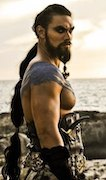
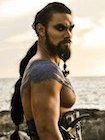
remove myspace friend reference, crop khal pic to be slightly shorter

diff --git a/khal.html b/khal.html
@@ -380,10 +380,6 @@
               <img src="pictures/KennyPowers.jpg">
             </figure>
 
-            <figure>
-              <figcaption><a href="#">InnSpace<br>Records</a></figcaption>
-              <img src="pictures/myspace-records-3.jpg">
-            </figure>
           </div>
 
           <p class="friends-list-link"><a href="#">View All of Khal's Friends</a></p>
